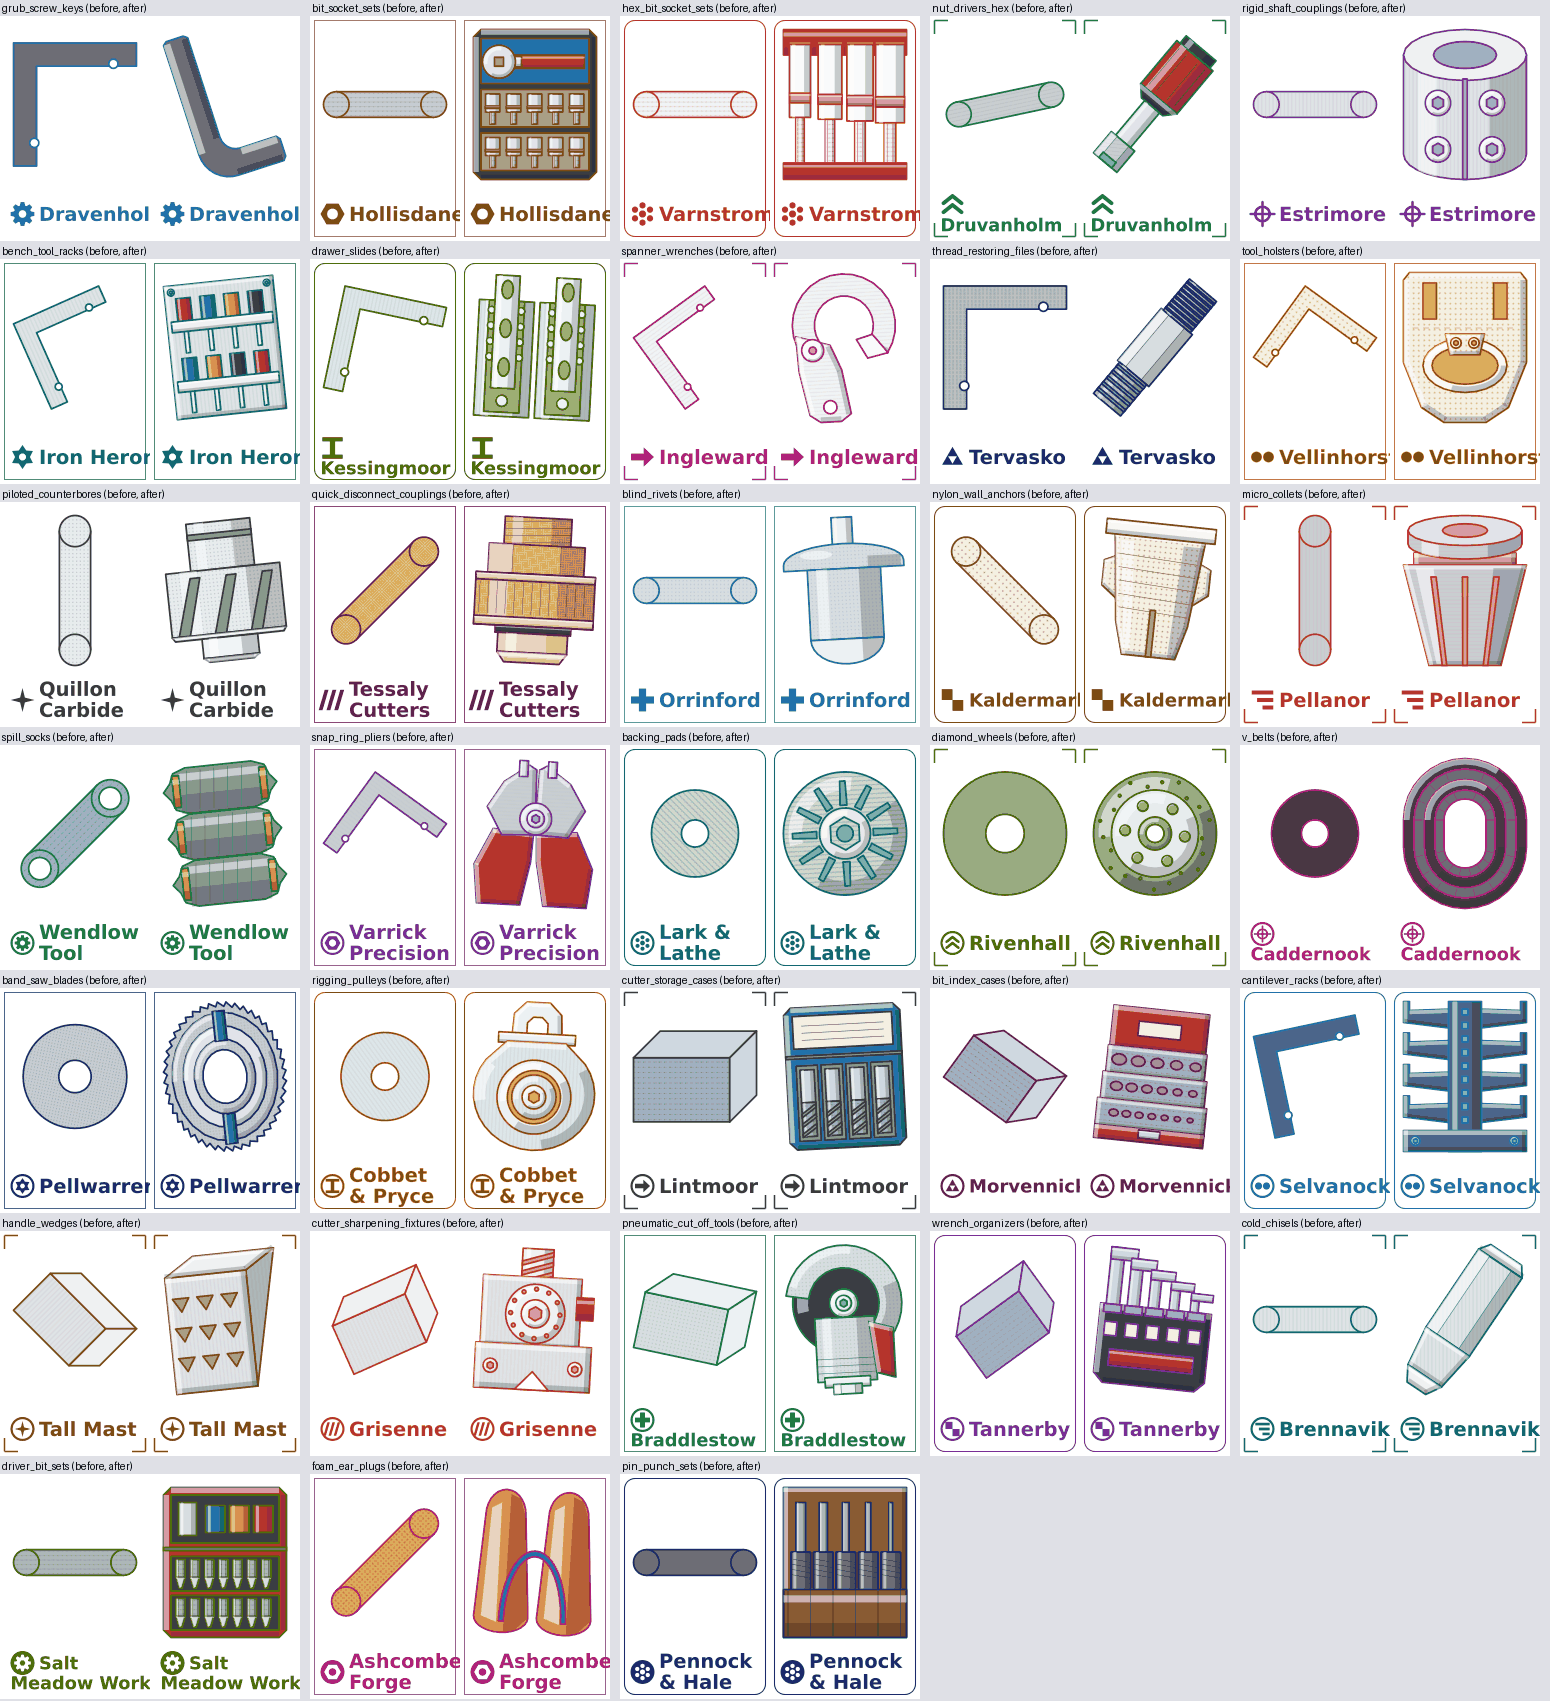
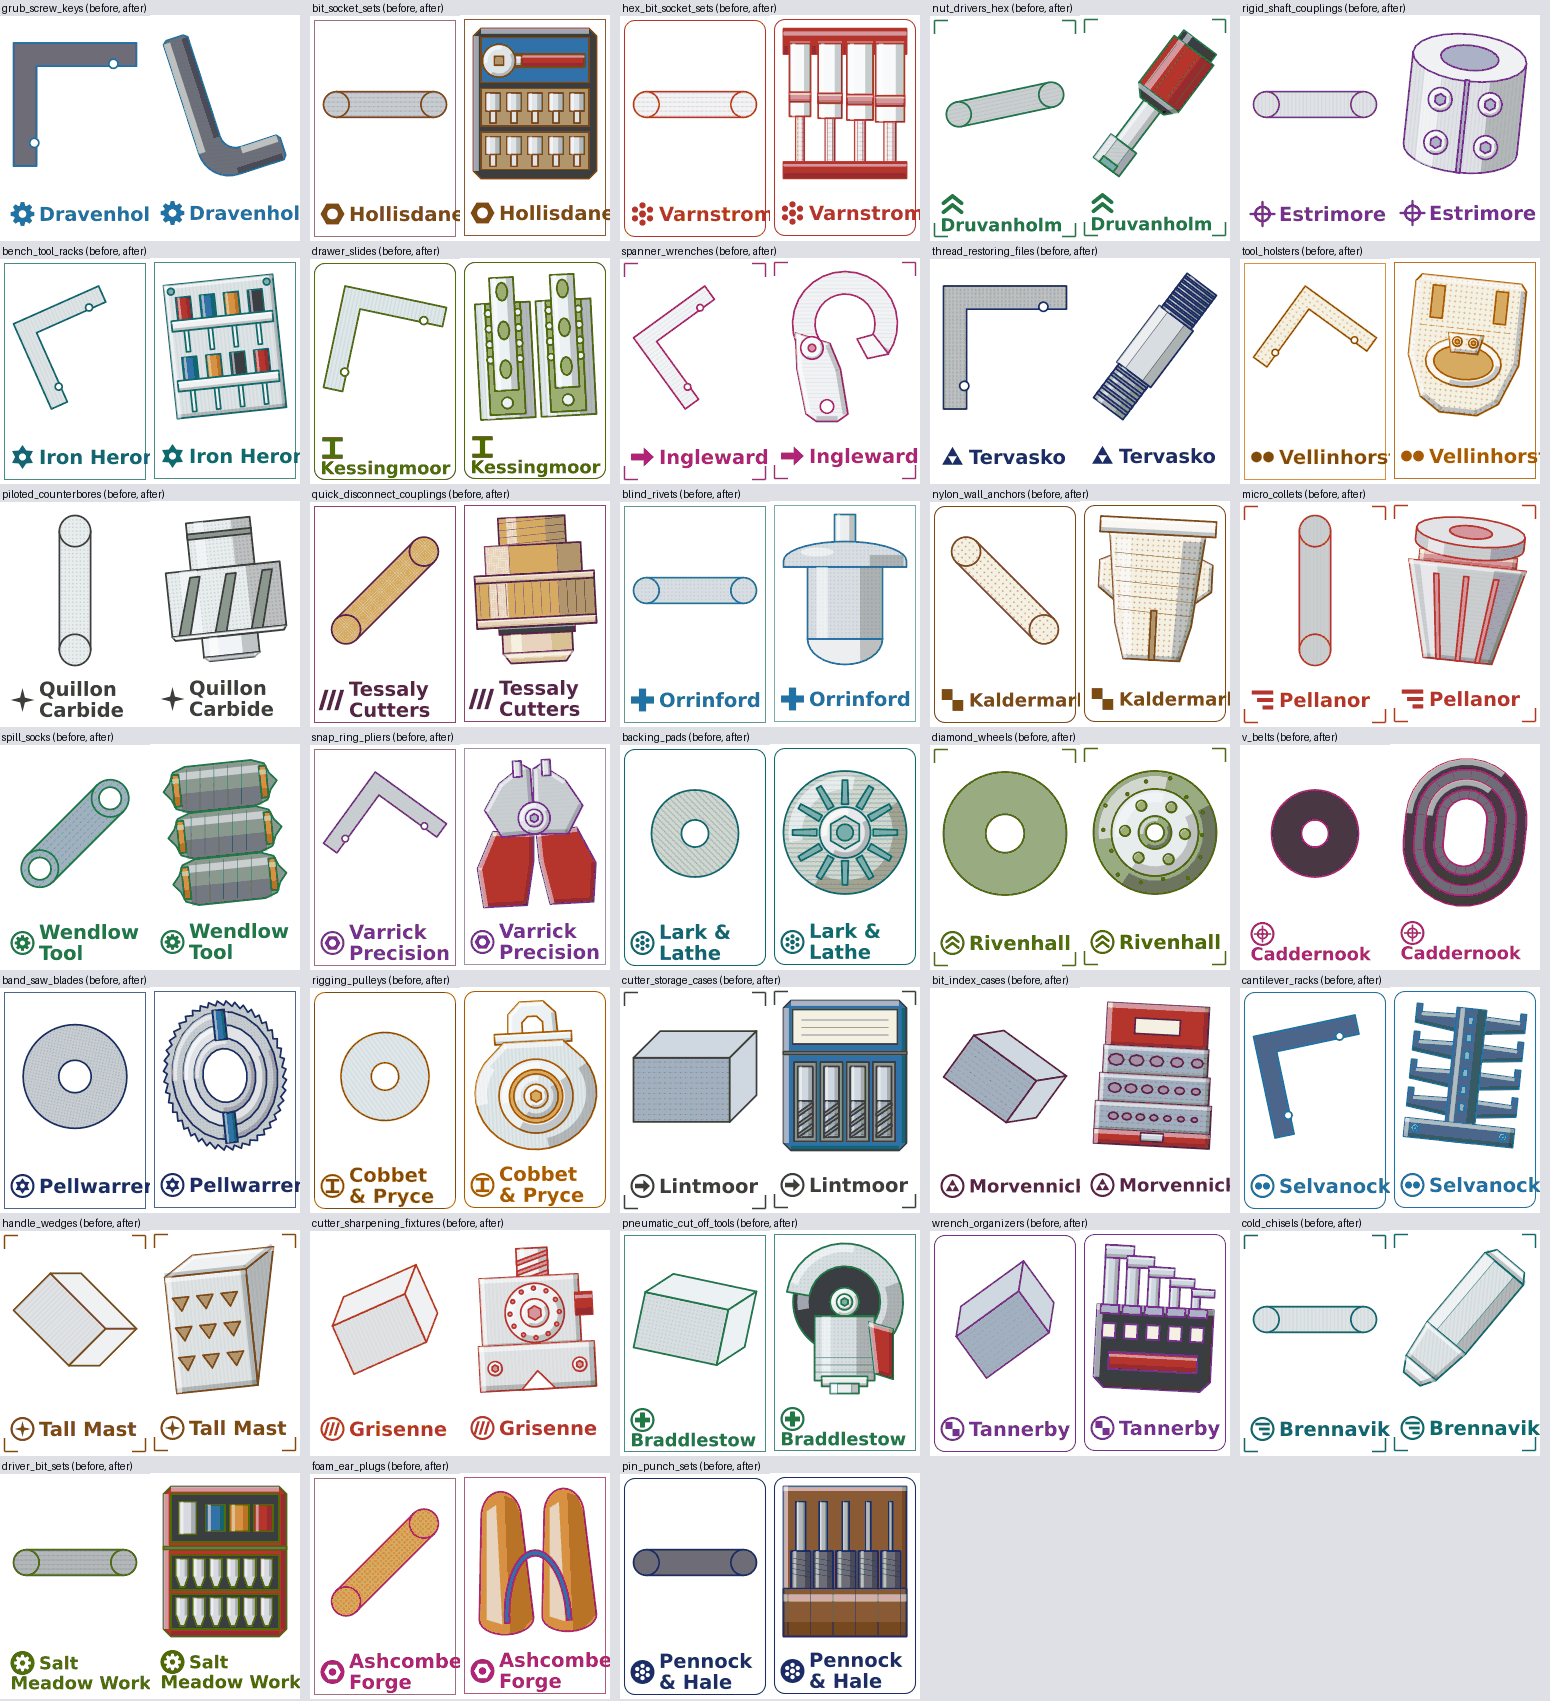
feat(industrial): 33 more breadth types are drawn as their real product, lit, at 50% of the area or a named floor (slice 2) (#1216)
the shared shapes these types drew filled 5 to 15% of the product area and showed no product

diff --git a/src/synthetic_ecommerce_data/domains/industrial/drawing/breadth_hardware.py b/src/synthetic_ecommerce_data/domains/industrial/drawing/breadth_hardware.py
@@ -52,16 +52,16 @@ def _case(fig: Figure, fill: str, split: float = 0.0) -> None:
 
 def _bolt(fig: Figure, c: Point, r: float) -> None:
     """A screw head with its hex recess."""
-    disc(fig, c, r, "plain")
+    disc(fig, c, r, "plain", steps=4)
     fig.poly(hexagon(c, r * 0.5), "dark")
 
 
 def _screwdriver(fig: Figure, x: float, y0: float, y1: float, w: float, grip: str) -> None:
     """A screwdriver hung by its handle: the grip on top, the blade below."""
     mid = y0 + 0.45 * (y1 - y0)
-    col(fig, x + w * 0.36, mid, x + w * 0.64, y1, "plain")
+    fig.rect(x + w * 0.36, mid, x + w * 0.64, y1, "plain")
     col(fig, x, y0, x + w, mid, "handle", grip)
-    bar(fig, x + w * 0.1, mid, x + w * 0.9, mid + 0.08, "plain")
+    fig.rect(x + w * 0.1, mid, x + w * 0.9, mid + 0.08, "plain")
 
 
 # --- hand tools --------------------------------------------------------------------------------
@@ -187,6 +187,14 @@ def _hex_bit(fig: Figure, x: float, y: float, w: float, h: float) -> None:
     bar(fig, x, y + h * 0.4, x + w, y + h * 0.48, "dark")
 
 
+def _small_hex_bit(fig: Figure, x: float, y: float, w: float, h: float) -> None:
+    """:func:`_hex_bit` in a set of many, in four shapes: a drawing has a size cap."""
+    fig.rect(x + w * 0.3, y + h * 0.5, x + w * 0.7, y + h, "plain")
+    fig.rect(x, y, x + w, y + h * 0.6, "plain")
+    fig.rect(x + w * 0.12, y, x + w * 0.3, y + h * 0.6, "gloss")
+    fig.rect(x + w * 0.64, y, x + w, y + h * 0.6, "shade")
+
+
 def bit_socket_set(record: Record) -> Drawn:
     """A hex key bit socket set on a ratchet: the case, the ratchet and two rows of bits."""
     del record
@@ -195,12 +203,12 @@ def bit_socket_set(record: Record) -> Drawn:
     fig.rect(0.1, 0.12, 1.54, 0.72, "handle", GRIP_BLUE)
     bar(fig, 0.5, 0.34, 1.48, 0.52, "handle", GRIP_RED)
     bar(fig, 0.24, 0.36, 0.64, 0.5, "plain")
-    disc(fig, (0.34, 0.43), 0.22, "plain")
+    disc(fig, (0.34, 0.43), 0.22, "plain", steps=6)
     fig.rect(0.28, 0.37, 0.4, 0.49, "dark")
     for row in range(2):
         fig.rect(0.1, 0.8 + 0.58 * row, 1.54, 1.3 + 0.58 * row, "dark")
         for k in range(5):
-            _hex_bit(fig, 0.16 + 0.28 * k, 0.86 + 0.58 * row, 0.19, 0.4)
+            _small_hex_bit(fig, 0.16 + 0.28 * k, 0.86 + 0.58 * row, 0.2, 0.4)
     return done(fig)
 
 
@@ -231,11 +239,12 @@ def driver_bit_set(record: Record) -> Drawn:
     for row in range(2):
         y = 0.92 + 0.52 * row
         fig.rect(0.1, y, 1.54, y + 0.46, "handle", RUBBER)
-        for k in range(7):
-            x = 0.17 + 0.19 * k
-            hexes(fig, x, y + 0.04, x + 0.12, y + 0.28)
-            slab(fig, [(x, y + 0.28), (x + 0.12, y + 0.28), (x + 0.08, y + 0.42),
-                       (x + 0.04, y + 0.42)], "plain", t=0.02)  # fmt: skip
+        for k in range(6):
+            x, w = 0.17 + 0.225 * k, 0.16
+            fig.poly([(x, y + 0.04), (x + w, y + 0.04), (x + w, y + 0.28), (x + 0.11, y + 0.42),
+                      (x + 0.05, y + 0.42), (x, y + 0.28)], "plain")  # fmt: skip
+            fig.rect(x, y + 0.04, x + w * 0.3, y + 0.28, "gloss")
+            fig.rect(x + w * 0.7, y + 0.04, x + w, y + 0.28, "shade")
     return done(fig)
 
 
@@ -399,10 +408,10 @@ def diamond_wheel(record: Record) -> Drawn:
     disc(fig, c, 0.58, "plain")
     for k in range(6):
         a = math.radians(60 * k)
-        disc(fig, (c[0] + 0.4 * math.cos(a), c[1] + 0.4 * math.sin(a)), 0.07, "dark")
-    disc(fig, c, 0.22, "part")
+        disc(fig, (c[0] + 0.4 * math.cos(a), c[1] + 0.4 * math.sin(a)), 0.07, "dark", steps=4)
+    disc(fig, c, 0.22, "part", steps=6)
     fig.disc(c, 0.12, "hole")
-    grit = [(math.radians(17 * k), 0.63 + 0.06 * (k % 3)) for k in range(21)]
+    grit = [(math.radians(25.7 * k), 0.63 + 0.06 * (k % 3)) for k in range(14)]
     for a, r in grit:
         fig.disc((c[0] + r * math.cos(a), c[1] + r * math.sin(a)), 0.018, "dark")
     return done(fig)
@@ -486,7 +495,7 @@ def screwdriver_rack(record: Record) -> Drawn:
     fig = new()
     slab(fig, [(0.0, 0.0), (1.64, 0.0), (1.64, 2.0), (0.0, 2.0)])
     for x in (0.1, 1.54):
-        _bolt(fig, (x, 0.1), 0.05)
+        fig.disc((x, 0.1), 0.05, "dark")
     grips = (GRIP_RED, GRIP_BLUE, SAFETY, RUBBER)
     for row in range(2):
         y = 0.2 + 0.9 * row
@@ -506,11 +515,11 @@ def drawer_slides(record: Record) -> Drawn:
         fig.rect(x0 + 0.14, 0.36, x0 + 0.64, 1.94, "dark")
         for y in (0.5, 0.72, 0.94, 1.16):
             for x in (0.18, 0.6):
-                disc(fig, (x0 + x, y), 0.05, "plain")
+                fig.disc((x0 + x, y), 0.05, "plain")
         col(fig, x0 + 0.22, 0.0, x0 + 0.56, 1.6, "plain")
         for y in (0.2, 0.75, 1.3):
-            fig.poly(ell((x0 + 0.39, y), 0.08, 0.13), "dark")
-        disc(fig, (x0 + 0.39, 1.78), 0.08, "plain")
+            fig.poly(ell((x0 + 0.39, y), 0.08, 0.13, steps=12), "dark")
+        disc(fig, (x0 + 0.39, 1.78), 0.08, "plain", steps=4)
     return done(fig)
 
 
@@ -570,7 +579,7 @@ def bit_index_case(record: Record) -> Drawn:
         slab(fig, [(inset, y), (1.64 - inset, y), (1.64 - inset, y + 0.42), (inset, y + 0.42)])
         for k in range(5 + row):
             r = (0.11 - 0.02 * row) * (1 - 0.06 * k)
-            fig.poly(ell((0.26 + 1.15 * k / (4 + row), y + 0.2), r, r * 0.75, steps=16), "dark")
+            fig.poly(ell((0.26 + 1.15 * k / (4 + row), y + 0.2), r, r * 0.75, steps=8), "dark")
     slab(fig, [(0.0, 1.8), (1.64, 1.8), (1.64, 2.0), (0.0, 2.0)], "handle", GRIP_RED)
     bar(fig, 0.66, 1.82, 0.98, 1.94, "plain")
     return done(fig)
@@ -585,11 +594,15 @@ def cantilever_rack(record: Record) -> Drawn:
         y = 0.06 + 0.42 * k
         arm = [(0.66, y + 0.04), (0.08, y + 0.06), (0.08, y - 0.06), (0.0, y - 0.06),
                (0.0, y + 0.22), (0.66, y + 0.3)]  # fmt: skip
-        slab(fig, arm, t=0.05)
-        slab(fig, mirror(arm), t=0.05)
+        lit = [(0.66, y + 0.04), (0.08, y + 0.06), (0.08, y + 0.11), (0.66, y + 0.09)]
+        dim = [(0.66, y + 0.25), (0.0, y + 0.17), (0.0, y + 0.22), (0.66, y + 0.3)]
+        for flip in (list, mirror):
+            fig.poly(flip(arm))
+            fig.poly(flip(lit), "gloss")
+            fig.poly(flip(dim), "shade")
     col(fig, 0.6, 0.0, 1.04, 2.0)
-    for k in range(9):
-        fig.rect(0.78, 0.1 + 0.18 * k, 0.86, 0.18 + 0.18 * k, "dark")
+    for k in range(6):
+        fig.rect(0.78, 0.12 + 0.26 * k, 0.86, 0.24 + 0.26 * k, "dark")
     slab(fig, [(0.0, 1.72), (1.64, 1.72), (1.64, 2.0), (0.0, 2.0)], t=0.06)
     for x in (0.16, 1.48):
         _bolt(fig, (x, 1.86), 0.06)

diff --git a/tests/test_fill_breadth_1216.py b/tests/test_fill_breadth_1216.py
@@ -5,6 +5,7 @@ sells, and measured with #1129's sweep (``picture_fill_1129.sheet_measures``).""
 
 from __future__ import annotations
 
+import itertools
 import sys
 from pathlib import Path
 
@@ -20,6 +21,7 @@ from synthetic_ecommerce_data.domains.industrial.drawing import breadth_rungs  #
 from synthetic_ecommerce_data.domains.industrial.drawing.breadth_products import (  # noqa: E402
     BREADTH_PRODUCTS,
 )
+from test_sku_drawings import MAX_DRAWING_BYTES  # noqa: E402
 
 FLOOR = 0.50
 #: The named exceptions: a true outline that cannot reach the floor, at its own measured one.
@@ -113,3 +115,22 @@ def test_every_size_and_angle_fills_the_floor_with_a_highlight_and_a_shadow(key)
     for angle, record, area in _measured(key):
         assert area.cover >= FLOORS.get(key, FLOOR), (angle, record, area)
         assert area.highlight and area.shadow and not area.flat, (angle, record, area)
+
+
+@pytest.mark.parametrize("key", sorted(BREADTH_PRODUCTS))
+def test_every_drawing_stays_under_the_byte_cap(key):
+    """The worst case of each type, over every brand, material, size and angle: one seed's
+    catalog stocks a few of them."""
+    row = breadth.row_for(key)
+    largest = 0
+    for values in itertools.product(*row.attributes.values()):
+        common = dict(zip(row.attributes, values, strict=True))
+        records = [{**common, row.size_attr: value} for value in row.size_values]
+        ratios = breadth_rungs.ratios(key, records)
+        for angle in product_look.ORIENTATIONS[domain.orientation(key)]:
+            scale = drawing.product_scale_for(key, records, angle)
+            for record, ratio in zip(records, ratios, strict=True):
+                for brand in brands.BRANDS:
+                    svg, _ = drawing._draw(key, brand, record, scale * ratio, angle)
+                    largest = max(largest, len(svg))
+    assert largest < MAX_DRAWING_BYTES, largest

diff --git a/src/synthetic_ecommerce_data/domains/industrial/drawing/breadth_light.py b/src/synthetic_ecommerce_data/domains/industrial/drawing/breadth_light.py
@@ -73,12 +73,16 @@ def slab(fig: Figure, pts: Sequence[Point], role="part", fill=None, t=0.06) -> N
         fig.poly(((ax, ay), (bx, by), *inner), "gloss" if lit > 0 else "shade")
 
 
-def disc(fig: Figure, c: Point, r: float, role="part", fill=None, bore: float = 0.0) -> None:
-    """A round face: a highlight crescent up left, a shadow crescent down right."""
+def disc(
+    fig: Figure, c: Point, r: float, role="part", fill=None, bore: float = 0.0, steps: int = 12
+) -> None:
+    """A round face: a highlight crescent up left, a shadow crescent down right, each drawn in
+    ``steps`` (a small face needs few, and a drawing has a size cap)."""
     fig.disc(c, r, role, fill)
     for start, end, kind, outer in ((-30, 120, "shade", 1.0), (170, 280, "gloss", 0.92)):
         inner = max(outer - 0.22, (bore / r) if r else 0)
-        fig.poly([*arc(c, r * outer, start, end, 12), *arc(c, r * inner, end, start, 12)], kind)
+        rim = arc(c, r * outer, start, end, steps)
+        fig.poly([*rim, *arc(c, r * inner, end, start, steps)], kind)
 
 
 def ell(c: Point, rx: float, ry: float, start=0.0, end=360.0, steps=24) -> list[Point]:

diff --git a/src/synthetic_ecommerce_data/domains/industrial/drawing/breadth_products.py b/src/synthetic_ecommerce_data/domains/industrial/drawing/breadth_products.py
@@ -2,7 +2,8 @@
 
 A breadth type draws one of the shared shapes of :mod:`.breadth_shapes` until it has a drawing of
 its own here. A drawing here is still fixed geometry, the same whatever the record (a breadth SKU's
-sizes are cheap filler, so nothing is drawn to scale), but it is the real product: its own parts,
+sizes are cheap filler, so nothing is drawn to scale; only foam ear plugs read their ``Type``, for
+the cord), but it is the real product: its own parts,
 its own colors, a highlight and a shadow (the ``gloss`` and ``shade`` overlays), filling
 the figure area. :data:`BREADTH_PRODUCTS` maps a type key to its drawing; the key's row keeps its
 ``shape`` for the day it has none.

diff --git a/docs/drawings.md b/docs/drawings.md
@@ -338,9 +338,12 @@ already a longer drawing, and a rank on top would shrink it twice.
 
 A type named in `BREADTH_PRODUCTS` (`domains/industrial/drawing/breadth_products.py`) draws the
 product it is sold as, in place of its row's `shape`: a jaw puller, a grease tub, an eye bolt.
-The geometry is still fixed and reads nothing from the record, but it has the product's own parts
-and colors, a highlight and a shadow (the `gloss` and `shade` roles: translucent, unoutlined), and
-it is laid out to fill the figure area. Three things keep it large:
+The second slice's drawings (hand tools, hardware and storage) are in `breadth_hardware.py`, and
+the light and the parts both share in `breadth_light.py`. The geometry is still fixed and reads
+nothing from the record (one exception: `foam_ear_plugs` draws the cord of a `Corded` pair), but
+it has the product's own parts and colors, a highlight and a shadow (the `gloss` and `shade`
+roles: translucent, unoutlined), and it is laid out to fill the figure area. Three things keep it
+large:
 
 * it is `steady`, turned by 6 degrees at most (a kit is `level`);
 * its scale is fitted to its own turned outline (`product_look.OUTLINES`), not to its turned box;
@@ -348,9 +351,12 @@ it is laid out to fill the figure area. Three things keep it large:
 
 `tests/test_fill_breadth_1216.py` draws every size at every angle and holds each to 50% of the
 figure area, measured as [the picture sweep](retail-prototype/picture-fill-1129.md) does, or to
-the type's own floor where its true outline cannot reach that (`FLOORS`: a rod, an open clamp).
-Before and after: [the sheet](images/breadth-fill-1216.png). The other breadth types under 50%
-follow in later slices of #1216.
+the type's own floor where its true outline cannot reach that (`FLOORS`: a rod, an open clamp). It
+also holds each type's largest drawing, over every brand, material, size and angle, under the
+8,000-byte cap: a small part (a bolt head, a bit in a set) is drawn in few points and few shapes.
+Before and after: [slice 1](images/breadth-fill-1216.png) and
+[slice 2](images/breadth-fill-1216-slice-2.png). The other breadth types under 50% follow in a
+later slice of #1216.
 
 ### Every drawing is drawn by code (#803)
 

diff --git a/docs/images.md b/docs/images.md
@@ -20,7 +20,7 @@ apply to them: they are filler to give a facet something to show, not a
 figure meant to survive a close look (maintainer, 2026-09-30). They still go
 through the same text allow-list, brand plate, house style and material/finish fill as
 every other drawing -- only the GEOMETRY is fixed. A breadth type with a drawing of its own
-(30 so far, `drawing/breadth_products.py`, #1216) is drawn as the product it is sold as, lit and
+(63 so far, `drawing/breadth_products.py`, #1216) is drawn as the product it is sold as, lit and
 filling at least half of the figure area ([drawings](drawings.md#breadth-types-fixed-shapes)).
 
 * **One image per SKU**, so two lengths of one screw look different, and a
